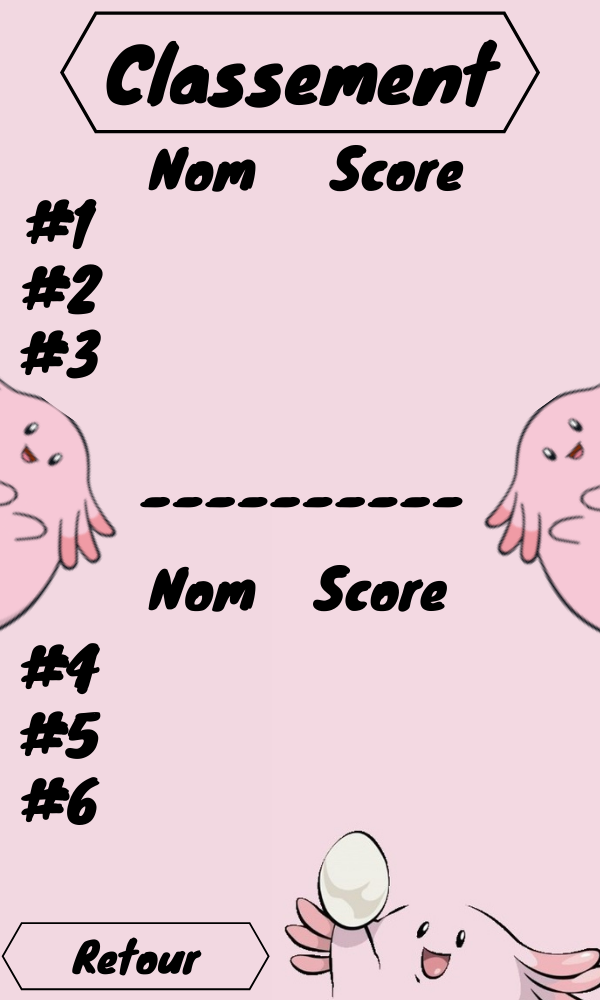
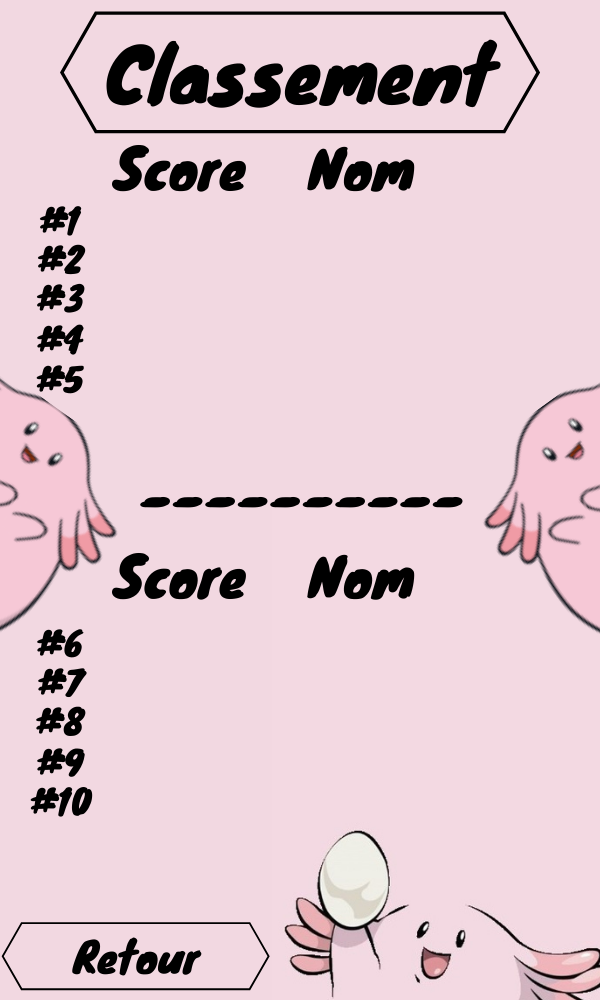
Bouton sauvegarde

diff --git a/CatchemEggV7/init.c b/CatchemEggV7/init.c
@@ -9,7 +9,7 @@
 int menu(){
 
   int width = 446, height = 676;
-  int x, y, sortie_joueur;
+  int x, y, sortie_joueur, sortie_regle;
 
   int sortie_menu = 0;
 
@@ -38,6 +38,7 @@ int menu(){
   do{
     
     sortie_joueur = 0;
+    sortie_regle = 0;
     
     /* Position de la souris */
 
@@ -157,7 +158,7 @@ int menu(){
 
 	  	}
 
-	}while(!sortie_joueur);
+		}while(!sortie_joueur);
 
       }
 
@@ -193,17 +194,17 @@ int menu(){
 
       if(x >= 75 && x <= 372 && y >= 340 && y <= 410){
 
-	/* Supprime le background qui a été crée */
+		/* Supprime le background qui a été crée */
   
-	MLV_free_image(background); 
+		MLV_free_image(background); 
 
-	/* Ferme la fenêtre */
+		/* Ferme la fenêtre */
   
-	MLV_free_window();
+		MLV_free_window();
 
-	return 0;
+		return 0;
 
-	sortie_menu = 1;
+		sortie_menu = 1;
 
       }
 
@@ -211,7 +212,7 @@ int menu(){
 
       if(x >= 280 && x <= 433 && y >= 478 && y <= 520){
 
-  	MLV_free_image(background); 
+  		MLV_free_image(background); 
 
 		background = MLV_load_image("regle.png");
 
@@ -223,32 +224,39 @@ int menu(){
   
 		MLV_actualise_window();
 
-		MLV_wait_milliseconds(1000);
+		do{
 
+		  	/* Position de la souris */
 
+		  	MLV_get_mouse_position(&x, &y);
+
+		  	if(MLV_get_mouse_button_state(MLV_BUTTON_LEFT) == MLV_PRESSED){
 		
 
-		if(x >= 280 && x <= 433 && y >= 478 && y <= 520){
+			if(x >= 0 && x <= 140 && y >= 600 && y <= 675){
 
-	      	/* Supprime le background qui a été crée */
+	      		/* Supprime le background qui a été crée */
 
-	      	MLV_free_image(background);
+	      		MLV_free_image(background);
 
-	    	/* On charge en mémoire le background du regle */
+	    		/* On charge en mémoire le background du regle */
 
-	      	background = MLV_load_image("BackgroundMenu.png");
+	      		background = MLV_load_image("BackgroundMenu.png");
 
-	      	/* On affiche l'image */
+	      		/* On affiche l'image */
+  	
+	      		MLV_draw_image(background, 0, 0);
   
-	      	MLV_draw_image(background, 0, 0);
+	      		/* Met à jour l'affichage */
   
-	      	/* Met à jour l'affichage */
-  
-	      	MLV_actualise_window();
+	      		MLV_actualise_window();
 
-	      	sortie_joueur = 1;
+	      		sortie_regle = 1;
 
 	    	}
+	    }
+
+	    }while(!sortie_regle);
 
       }
     }

diff --git a/CatchemEggV7/classement.c b/CatchemEggV7/classement.c
@@ -8,11 +8,12 @@
 void classement(){
 
 	int sortie = 0;
-	int x, y, j;
+	int x, y;
 	int i = 120;
 	char c;
 	char data[100];
   int j = 0;
+  int tmp = 0;
 
 	FILE* fichier;
 
@@ -42,7 +43,7 @@ void classement(){
 
     /******************** Les données *************************/
 
-    fichier = fopen("save.txt", "r");
+    fichier = fopen("classement.txt", "r");
 
       if(!fichier){
 
@@ -56,25 +57,23 @@ void classement(){
 
       else{
 
-        while(j <= 3){
+      while(fgets(data, 255, fichier) != NULL){
 
-          while(fgets(data, 255, fichier) != NULL){
+        if(j <= 2){
 
-          i = i + 50;
+        i = i + 50;
 
-           MLV_draw_text(150, i, data, MLV_COLOR_BLACK);
+        MLV_draw_text(150, i, data, MLV_COLOR_BLACK);
 
-           j++;
+        j++;
 
-          }
+        }
+        
+        else{
 
-       }
+         i = 530 + tmp;
 
-       i = 500;
-
-       while(fgets(data, 255, fichier) != NULL){
-
-         i = i + 50;
+         tmp = tmp + 50;
 
          MLV_draw_text(150, i, data, MLV_COLOR_BLACK);
 
@@ -83,6 +82,7 @@ void classement(){
         MLV_actualise_window();
 
       }
+    }
 
 
 
